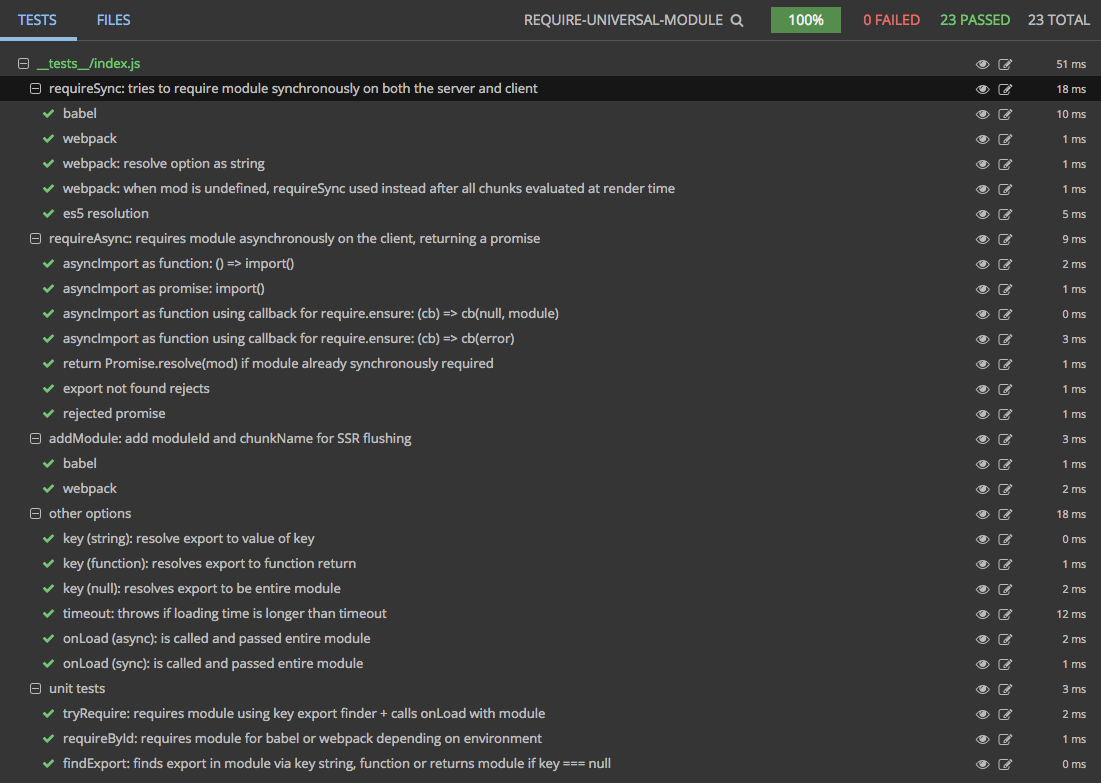
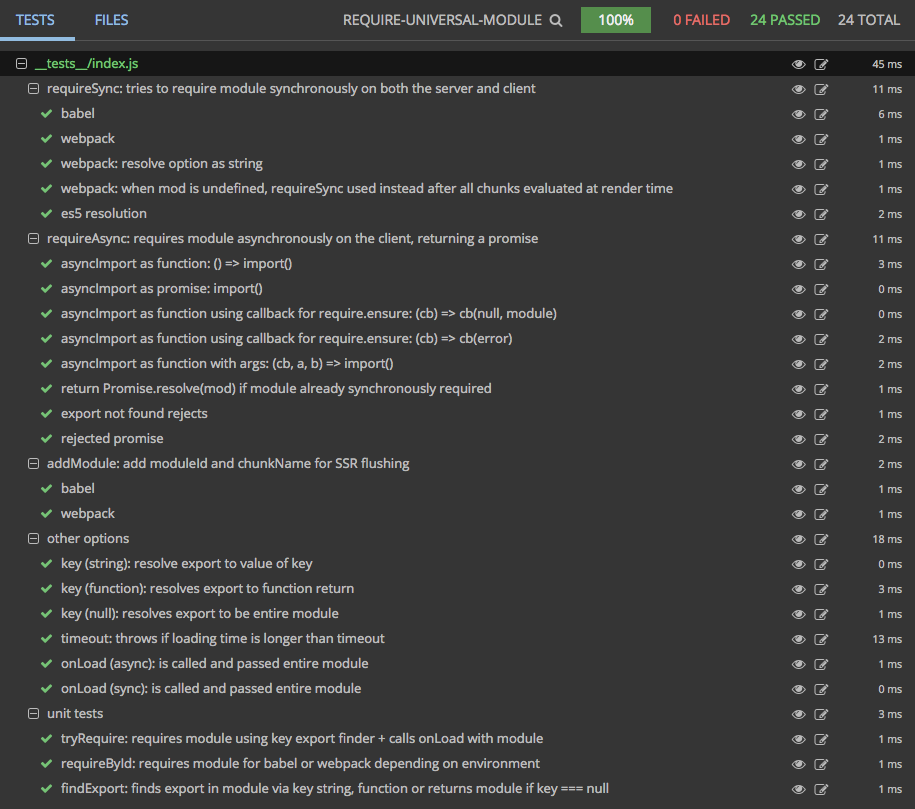
fix(test): added test for asimcImport as function with args

Changed region(s): [[0.0, 0.0, 1.0, 0.9808], [0.0918, 0.0, 0.153, 0.0307]]

diff --git a/__tests__/index.js b/__tests__/index.js
@@ -123,6 +123,13 @@ describe('requireAsync: requires module asynchronously on the client, returning 
     }
   })
 
+  it('asyncImport as function with args: (cb, a, b) => import()', async () => {
+    const { requireAsync } = req((cb, a, b) => Promise.resolve([a, b]))
+
+    const res = await requireAsync(1, 2)
+    expect(res).toEqual([1, 2])
+  })
+
   it('return Promise.resolve(mod) if module already synchronously required', async () => {
     const modulePath = createPath('es6')
     const { requireAsync, mod } = req(undefined, { path: modulePath })
